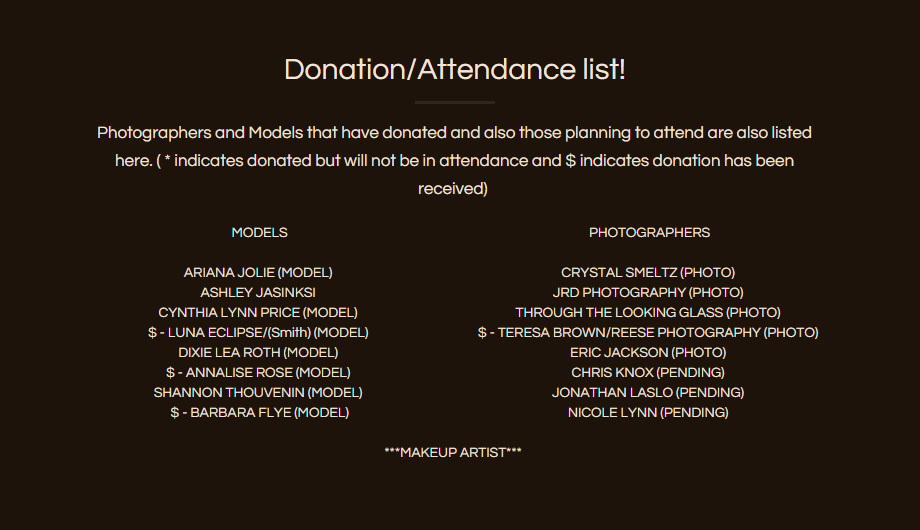
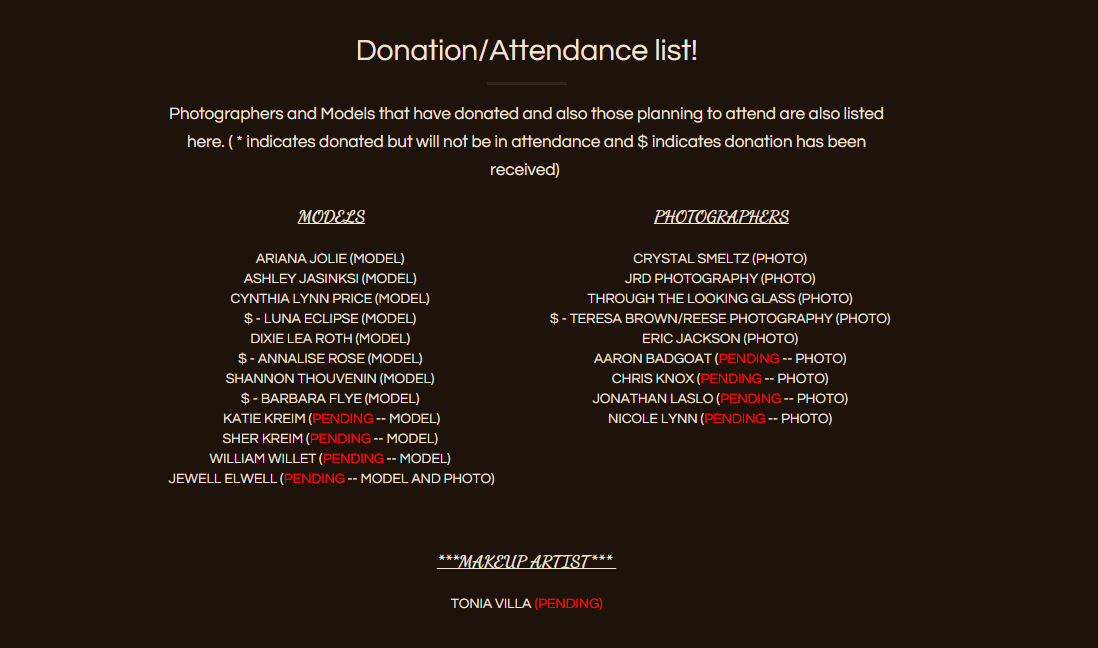
Updates to the donation list

diff --git a/index.html b/index.html
@@ -328,11 +328,12 @@
                     <hr class="primary">
                     <p> Photographers and Models that have donated and also those planning to attend are also listed here. ( * indicates donated but will not be in attendance and $ indicates donation has been received) <br> </p>
                 </div>
-                <div class="col-lg-4 col-lg-offset-2 text-center"><hr class= "visible-xs visible-sm visible-md"> MODELS<br><br> ARIANA JOLIE (MODEL) <br> ASHLEY JASINKSI <br> CYNTHIA LYNN PRICE (MODEL) <br> $ - LUNA ECLIPSE/(Smith) (MODEL) <br> DIXIE LEA ROTH (MODEL) <br> $ - ANNALISE ROSE (MODEL) <br> SHANNON THOUVENIN (MODEL)  <br> $ - BARBARA FLYE (MODEL)
+                <div class="col-lg-4 col-lg-offset-2 text-center"><hr class= "visible-xs visible-sm visible-md"> <span class="headline"> MODELS</span><br><br> ARIANA JOLIE (MODEL) <br> ASHLEY JASINKSI (MODEL) <br> CYNTHIA LYNN PRICE (MODEL) <br> $ - LUNA ECLIPSE (MODEL) <br> DIXIE LEA ROTH (MODEL) <br> $ - ANNALISE ROSE (MODEL) <br> SHANNON THOUVENIN (MODEL)  <br> $ - BARBARA FLYE (MODEL) <br> KATIE KREIM (<span class="pending">PENDING</span> -- MODEL)<br> SHER KREIM (<span class="pending">PENDING</span> -- MODEL) <br> WILLIAM WILLET (<span class="pending">PENDING</span> -- MODEL) <br> JEWELL ELWELL (<span class="pending">PENDING</span> -- MODEL AND PHOTO) 
                 </div><hr class= "visible-xs visible-sm visible-md">
-                <div class="col-lg-4 col-lg-offset-0 text-center">PHOTOGRAPHERS<br><br> CRYSTAL SMELTZ (PHOTO) <br>  JRD PHOTOGRAPHY (PHOTO) <br>  THROUGH THE LOOKING GLASS (PHOTO) <br> $ - TERESA BROWN/REESE PHOTOGRAPHY (PHOTO) <br> ERIC JACKSON (PHOTO)  <br> CHRIS KNOX (PENDING) <br> JONATHAN LASLO (PENDING) <br>NICOLE LYNN (PENDING) <br>
+                <div class="col-lg-4 col-lg-offset-0 text-center"><span class="headline">PHOTOGRAPHERS</span><br><br> CRYSTAL SMELTZ (PHOTO) <br>  JRD PHOTOGRAPHY (PHOTO) <br>  THROUGH THE LOOKING GLASS (PHOTO) <br> $ - TERESA BROWN/REESE PHOTOGRAPHY (PHOTO) <br> ERIC JACKSON (PHOTO) <br> AARON RHOADES (<span class="pending">PENDING</span> -- PHOTO) <br> CHRIS KNOX (<span class="pending">PENDING</span> -- PHOTO) <br> JONATHAN LASLO (<span class="pending">PENDING</span> -- PHOTO) <br>NICOLE LYNN (<span class="pending">PENDING</span> -- PHOTO) <br>
                 </div>
-                <div class="col-lg-8 col-lg-offset-2 text-center"><br> ***MAKEUP ARTIST*** <br></div>
+                <div class="col-lg-8 col-lg-offset-2 text-center"><br><br><br> <span class="headline">***MAKEUP ARTIST*** </span><br><br> TONIA VILLA <span class="pending">(PENDING)</span></div>
+
             </div>
         </div>
     </section>

diff --git a/css/styles.css b/css/styles.css
@@ -57,7 +57,15 @@ p {
     line-height: 1.7;
     margin-bottom: 20px;
 }
-
+.pending {
+    color: red;
+    font-weight: medium;
+}
+.headline {
+    font-size: 1.25em;
+    font-family: 'Dancing Script';
+    text-decoration: underline;
+}
 .wide-space {
     letter-spacing: 1.6px;
 }
